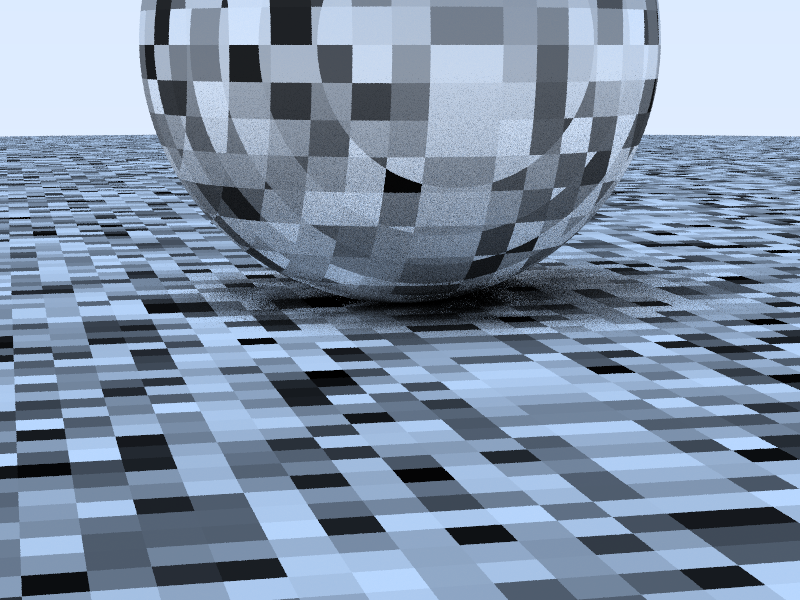
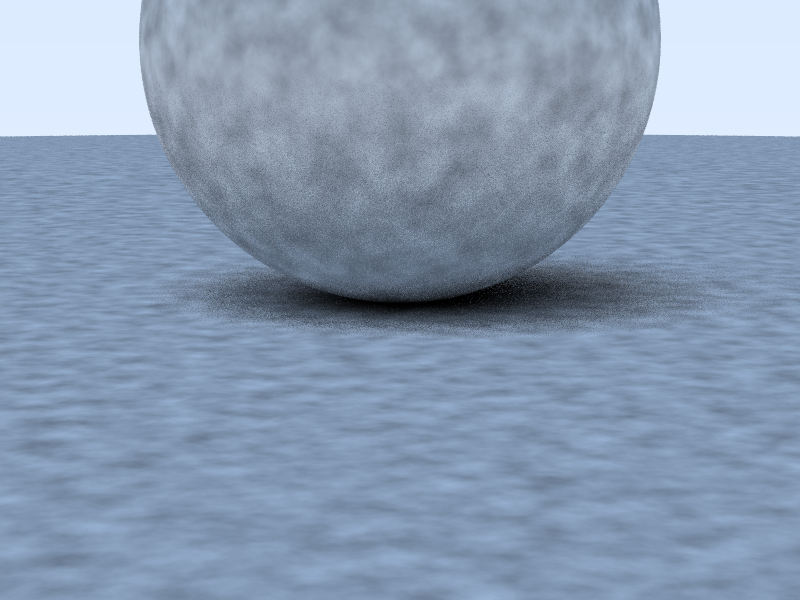
toward turb

diff --git a/src/perlin.cpp b/src/perlin.cpp
@@ -1,24 +1,55 @@
 #include "perlin.h"
 
+#include "util.h"
+
 float perlin::get_noise(const vec3& _p)
 {
     float u = _p.x() - std::floor(_p.x());
-    float v = _p.x() - std::floor(_p.y());
-    float w = _p.x() - std::floor(_p.z());
-    int i = int(4*_p.x()) & 255;
-    int j = int(4*_p.y()) & 255;
-    int k = int(4*_p.z()) & 255;
+    float v = _p.y() - std::floor(_p.y());
+    float w = _p.z() - std::floor(_p.z());
+    int i = std::floor(_p.x());
+    int j = std::floor(_p.y());
+    int k = std::floor(_p.z());
 
-    return random_floats[perm_x[i] ^ perm_y[j] ^ perm_z[k]];
+    vec3 data[2][2][2];
+    for(int di = 0; di < 2; di++)
+    {
+        for(int dj = 0; dj < 2; dj++)
+        {
+            for(int dk = 0; dk < 2; dk++)
+            {
+                data[di][dj][dk] = 
+                    random_vecs[perm_x[(i + di) & 255] ^ perm_y[(j + dj) & 255] ^ perm_z[(k + dk) & 255]];
+            }
+        }
+    }
+
+    return perlin_interpolate(data, u, v, w);
 }
 
-std::vector<float> perlin::perlin_generate()
+float perlin::turb(const vec3& _p, int depth)
 {
-    std::vector<float> result;
+    float accum = 0.0f;
+    vec3 temp_p = _p;
+    float weight = 1.0f;
+    for(int i = 0; i < depth; i++)
+    {
+        accum += weight * get_noise(temp_p);
+        weight *= 0.5;
+        temp_p *= 2;
+    }
+
+    return std::abs(accum);
+}
+
+std::vector<vec3> perlin::perlin_generate()
+{
+    std::vector<vec3> result;
     result.reserve(256);
     for(int i = 0; i < 256; i++)
     {
-        result.push_back(drand48());
+        // IMPORTANT : it has to be unit_vector here.
+        result.push_back(unit_vector(vec3(-1 + 2 * drand48(), -1 + 2 * drand48(), -1 + 2 * drand48())));
     }
     return result;
 }
@@ -48,7 +79,7 @@ std::vector<int> perlin::perlin_generate_perm()
     return result;
 }
 
-std::vector<float> perlin::random_floats = perlin::perlin_generate();
+std::vector<vec3> perlin::random_vecs = perlin::perlin_generate();
 std::vector<int> perlin::perm_x = perlin::perlin_generate_perm();
 std::vector<int> perlin::perm_y = perlin::perlin_generate_perm();
 std::vector<int> perlin::perm_z = perlin::perlin_generate_perm();

diff --git a/src/util.cpp b/src/util.cpp
@@ -73,6 +73,38 @@ void get_sphere_uv(const vec3& point_on_surface, float& _u, float& _v)
     _v = (theta + M_PI / 2.0f) / M_PI;
 }
 
+float perlin_interpolate(vec3 _data[2][2][2], float _u, float _v, float _w)
+{
+    // Reference :
+    // https://github.com/RayTracing/TheNextWeek/issues/6
+    //
+    // in the original implementation in the book, the dot product
+    // will return negative results, causing the produced image haing
+    // several dark bands. 
+    // Accoring to the github issue, this can be resolved by rescaling
+    // the interpolation result from [-1, 1] to [0, 1].
+
+    float uu = _u * _u * (3 - 2 * _u);
+    float vv = _v * _v * (3 - 2 * _v);
+    float ww = _w * _w * (3 - 2 * _w);
+
+    float accum = 0.0f;
+    for(int i = 0; i < 2; i++)
+    {
+        for(int j = 0; j < 2; j++)
+        {
+            for(int k = 0; k < 2; k++)
+            {
+                vec3 weight(_u - i, _v - j, _w - k);
+                accum += (i * uu + (1 - i) * (1 - uu)) *
+                         (j * vv + (1 - j) * (1 - vv)) *
+                         (k * ww + (1 - k) * (1 - ww)) * dot(_data[i][j][k], weight);
+            }
+        }
+    }
+    return 0.5f * (accum + 1.0f);
+}
+
 std::shared_ptr<hitable> random_scene()
 {
     int n = 500;
@@ -165,7 +197,7 @@ std::shared_ptr<hitable> two_sphere()
 
 std::shared_ptr<hitable> two_perlin_sphere()
 {
-    std::shared_ptr<texture> _perlin_texture = std::make_shared<perlin_noise_texture>();
+    std::shared_ptr<texture> _perlin_texture = std::make_shared<perlin_noise_texture>(4.0f);
 
     std::vector<std::shared_ptr<hitable>> list;
     list.reserve(50);

diff --git a/include/perlin.h b/include/perlin.h
@@ -9,14 +9,15 @@ class perlin
 {
 public:
     static float get_noise(const vec3& _p);
+    static float turb(const vec3& _p, int depth = 7);
 
-    static std::vector<float> random_floats;
+    static std::vector<vec3> random_vecs;
     static std::vector<int> perm_x;
     static std::vector<int> perm_y;
     static std::vector<int> perm_z;
 
 private:
-    static std::vector<float> perlin_generate();
+    static std::vector<vec3> perlin_generate();
     // this method will write to _p
     static void permute(std::vector<int>& _p, int _n);
     static std::vector<int> perlin_generate_perm();

diff --git a/src/texture.cpp b/src/texture.cpp
@@ -29,7 +29,9 @@ vec3 checker_texture::value_at_uv(float _u, float _v, const vec3& _hit_point) co
 
 vec3 perlin_noise_texture::value_at_uv(float _u, float _v, const vec3& _hit_point) const
 {
-    return vec3(1, 1, 1) * perlin::get_noise(_hit_point);
+    //return vec3(1, 1, 1) * perlin::get_noise(scale * _hit_point);
+    //std::cout << perlin::turb(scale * _hit_point) << "\n";
+    return vec3(1, 1, 1) * perlin::turb(scale * _hit_point);
 }
 
 image_texture::image_texture(std::string _file_name)

diff --git a/include/util.h b/include/util.h
@@ -15,6 +15,9 @@ float schlick(float _cosine, float _refractive_index);
 // texture sampling
 void get_sphere_uv(const vec3& point_on_surface, float& _u, float& _v);
 
+// interpolating
+float perlin_interpolate(vec3 _data[2][2][2], float _u, float _v, float _w);
+
 // scene generation
 std::shared_ptr<hitable> random_scene();
 std::shared_ptr<hitable> two_sphere();

diff --git a/include/texture.h b/include/texture.h
@@ -39,8 +39,12 @@ private:
 class perlin_noise_texture : public texture
 {
 public:
-    perlin_noise_texture() {}
+    perlin_noise_texture(float _scale) : scale(_scale) {}
+    
     virtual vec3 value_at_uv(float _u, float _v, const vec3& _hit_point) const override;
+
+private:
+    float scale;
 };
 
 class image_texture : public texture
